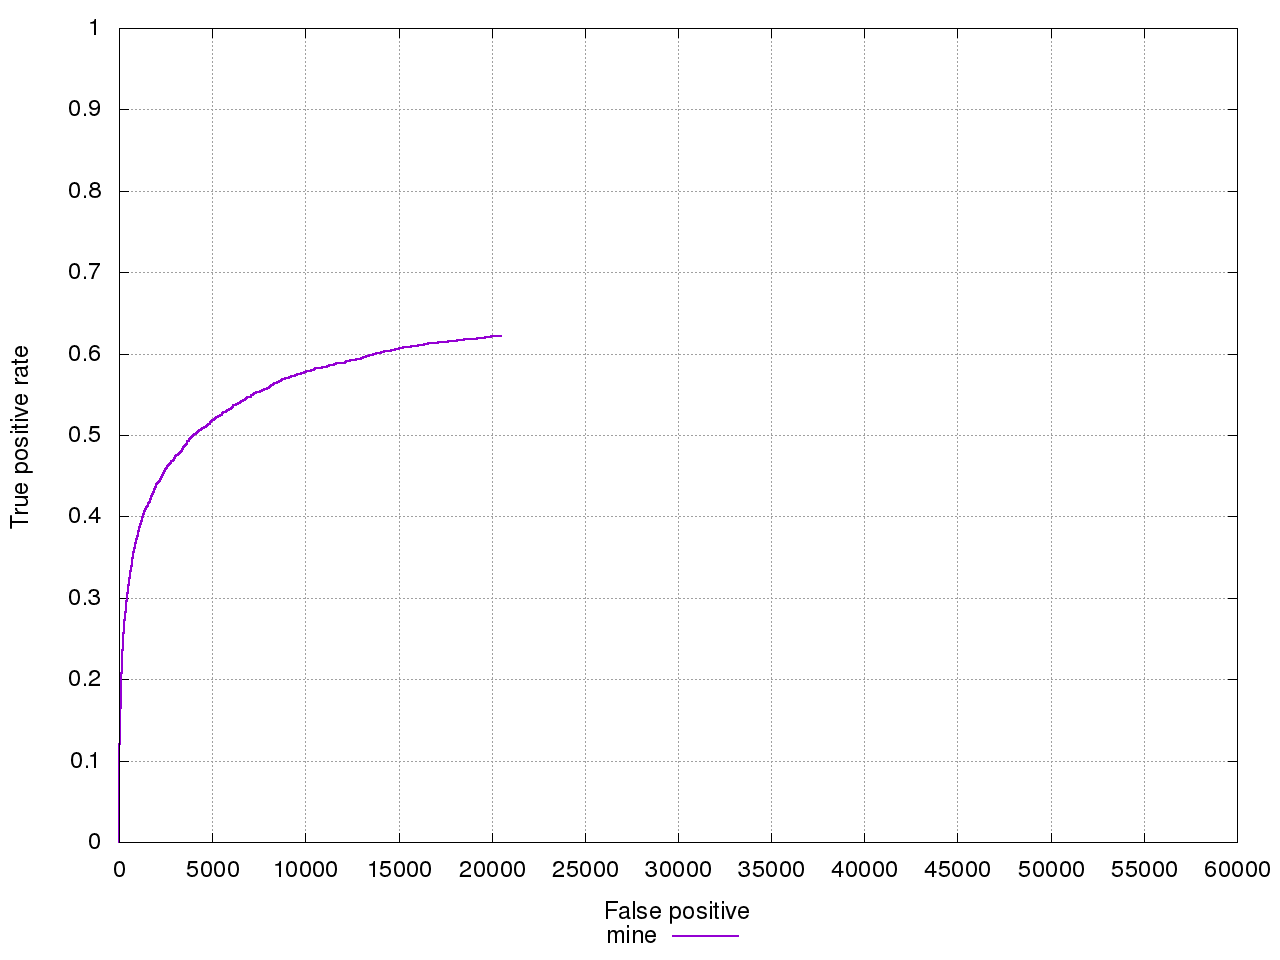
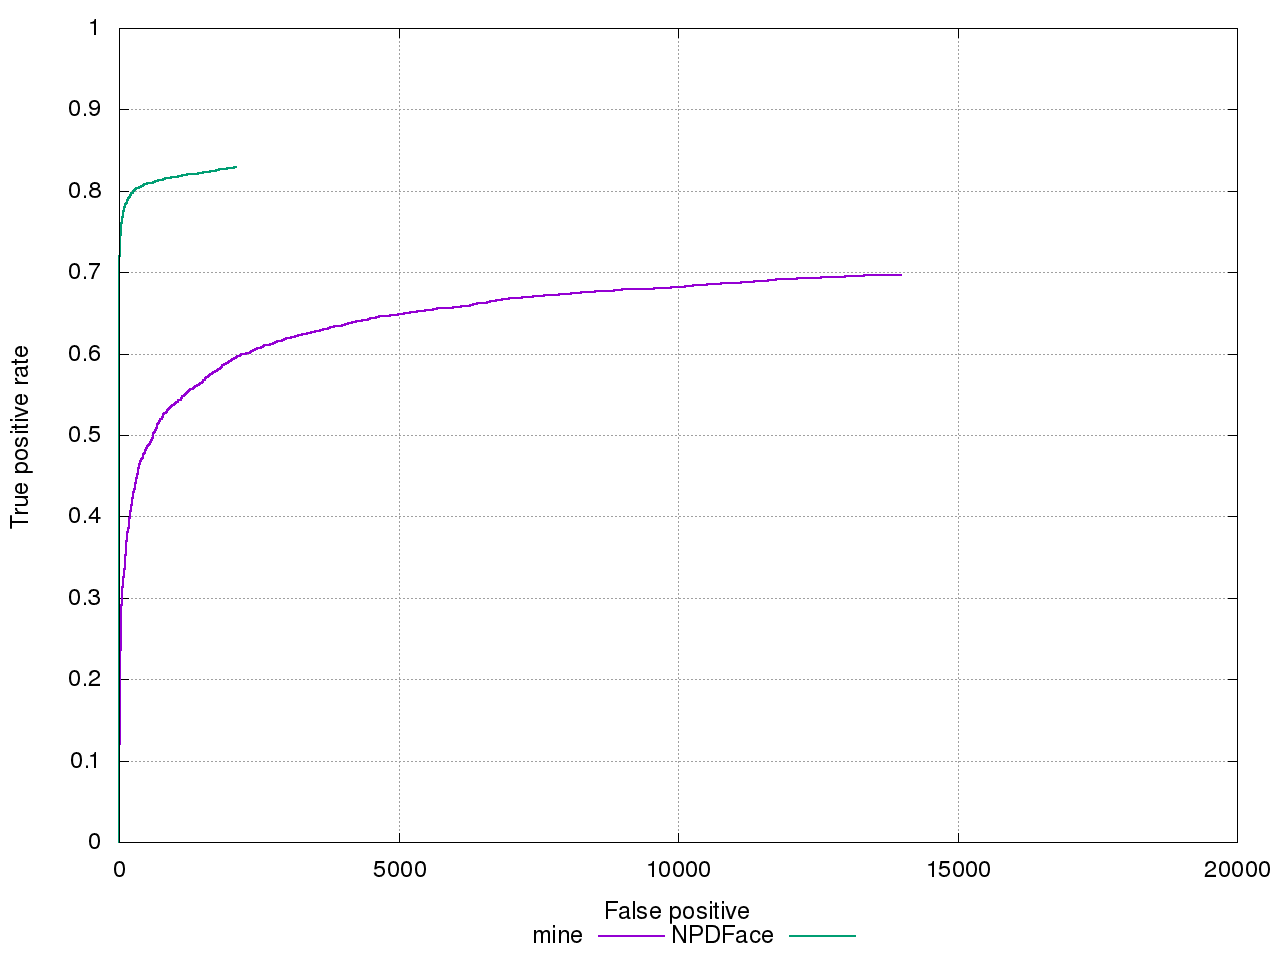
result update mining rate set

diff --git a/src/LearnGAB.cpp b/src/LearnGAB.cpp
@@ -38,6 +38,8 @@ GAB::GAB(){
     }
   } 
 
+  minRate = 0.001;
+
 }
 
 void GAB::LearnGAB(DataSet& pos, DataSet& neg){
@@ -444,13 +446,13 @@ void GAB::MiningNeg(int st,DataSet& neg){
       all++;
     }
     rate = ((double)(need))/(double)iter_all;
-    if(rate < 0.001){
+    if(rate < minRate){
       need = n - st;
       iter_all = 0;
       neg.current_id += pool_size;
       if (neg.current_id>neg.list.size()){
-        printf("ran out of NegImgs!!!\n");
-        break;
+        neg.current_id = 0;
+        minRate /= 10;
       }
       for(int k =0 ;k< pool_size;k++){
         Mat img = imread(neg.list[k+neg.current_id],CV_LOAD_IMAGE_GRAYSCALE);

diff --git a/src/LearnGAB.hpp b/src/LearnGAB.hpp
@@ -34,6 +34,8 @@ class GAB{
     vector<int> rpoints;
     cv::Mat ppNpdTable;
 
+    double minRate;
+
   public:
     int DetectSize;
     vector<int> DetectFace(cv::Mat,vector<cv::Rect>& ,vector<float>& );

diff --git a/README.md b/README.md
@@ -4,7 +4,7 @@ The C++ implementation of NPD
 
 Notice:The code is being Test!
 
-The result is trained by 10k pos data and the template is 24*24 , the stages num is 60 , that png shows its ability.
+The result is trained by 10k pos data and the template is 24*24 , the stages num is 180 , that png shows its ability.
 
 I will create a new branch for large size data , now the project compute feature all at once , if the template is 24*24 , the NPD features number is 165600 , so the 10k pos and 10k neg traing will cost at least 3Gb memory .
 
